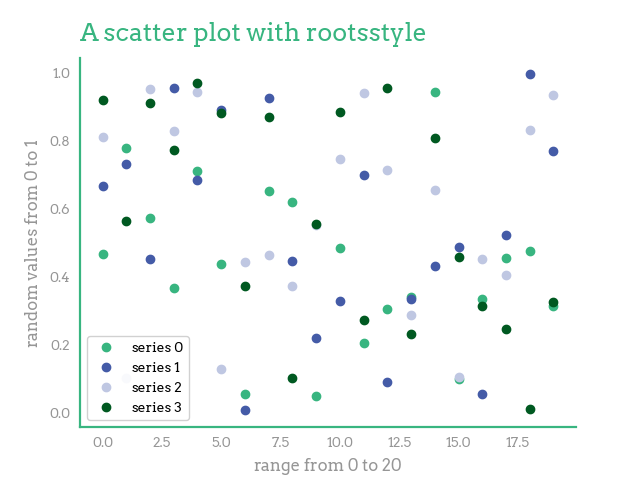
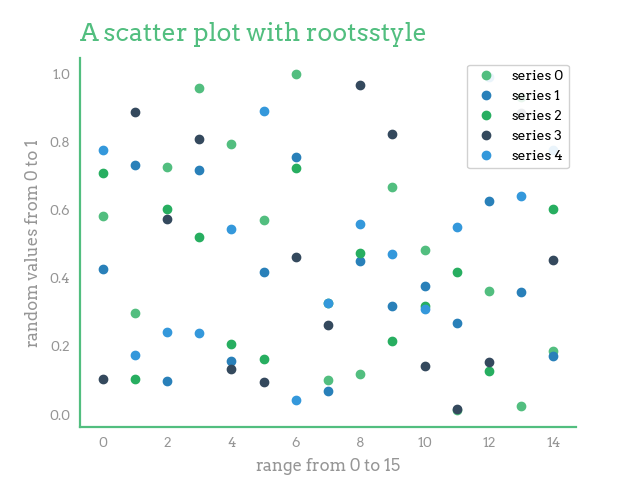
added sparkly stones barplot, updated colors

diff --git a/tests/test_rootsstyle.py b/tests/test_rootsstyle.py
@@ -8,16 +8,16 @@ def test_version():
     assert rootsstyle.__version__ == "0.1.0"
 
 
-nb_series = 4
 
 
 def test_scatterplot():
+    nb_series, nb_dots = 5, 15
     with plt.style.context(rootsstyle.style):
-        x = np.arange(start=0, stop=20, step=1)
-        y = np.random.rand(20, nb_series)
+        x = np.arange(start=0, stop=nb_dots, step=1)
+        y = np.random.rand(nb_dots, nb_series)
         plt.plot(x, y, linestyle="none", marker="o")
         plt.title("A scatter plot with rootsstyle")
-        plt.xlabel("range from 0 to 20")
+        plt.xlabel(f"range from 0 to {nb_dots}")
         plt.ylabel("random values from 0 to 1")
         plt.legend([f"series {i}" for i in range(nb_series)])
         assert plt.gcf().number == 1
@@ -39,9 +39,20 @@ def test_barplot_seaborn():
         plt.xlabel("Day")
         plt.ylabel("Total bill [$]")
         assert plt.gcf().number == 1
-        plt.savefig("images/barplot.png", transparent=True)
+        plt.savefig("images/barplot_tips.png", transparent=True)
         plt.close()
 
+def test_barplot_seaborn2():
+    diamonds = sns.load_dataset("diamonds")
+    diamonds_cut = diamonds.groupby('cut')['price'].count().reset_index().rename(columns={'price': 'count'})
+    with plt.style.context(rootsstyle.style):
+        sns.barplot(x="cut", y="count", data=diamonds_cut, order=list(diamonds['cut'].unique())[::-1])
+        plt.title("Sparkly Stones")
+        plt.xlabel("Cut")
+        plt.ylabel("Count")
+        assert plt.gcf().number == 1
+        plt.savefig("images/barplot_sparklystones.png", transparent=True)
+        plt.close()
 
 def test_lineplot_seaborn():
     tips = (

diff --git a/rootsstyle/__main__.py b/rootsstyle/__main__.py
@@ -9,14 +9,12 @@ import matplotlib as mpl
 import matplotlib.font_manager as fm
 
 colors = {
-    "green_light": "38b580",
-    "green_dark": "005921",
-    "blue_dark": "445ba7",
-    "blue_light": "bfc7e2",
-    "black": "212121",
+    "green_light": "52BE7F",
+    "green_dark": "27AE60",
+    "blue_dark": "2980B9",
+    "blue_light": "3498DB",
+    "blue_navy": "34495D",
     "gray": "969696",
-    "pink": "ff6361",
-    "yellow": "ffa600",
 }
 
 _fonts_dir = Path(__file__).parent.parent.joinpath("fonts")
@@ -28,7 +26,7 @@ fonts = {
 font_entries = [fm.FontEntry(fname=path, name=name) for name, path in fonts.items()]
 fm.fontManager.ttflist.extend(font_entries)
 
-#SOURCE: https://matplotlib.org/stable/tutorials/introductory/customizing.html#a-sample-matplotlibrc-file
+# SOURCE: https://matplotlib.org/stable/tutorials/introductory/customizing.html#a-sample-matplotlibrc-file
 style = {
     # FONT
     "font.family": "Arvo",
@@ -58,10 +56,9 @@ style = {
         color=[
             colors["green_light"],
             colors["blue_dark"],
-            colors["blue_light"],
             colors["green_dark"],
-            colors["black"],
-            colors["yellow"],
+            colors["blue_navy"],
+            colors["blue_light"],
         ],
     ),
 }

diff --git a/README.md b/README.md
@@ -40,10 +40,11 @@ with plt.style.context(rootsstyle.style):
 
 ## TODO
 
-- GitHub workflow to publish on pull-request
+- Find better spot/visualization for legend
+- Auto install matplotlib with package installation
 - Add more colors
 - Add python badge to show which python versions are supported
-- Auto install matplotlib with package installation
+- GitHub workflow to publish on pull-request
 - Using poetry install in ci.yml 
 
 
